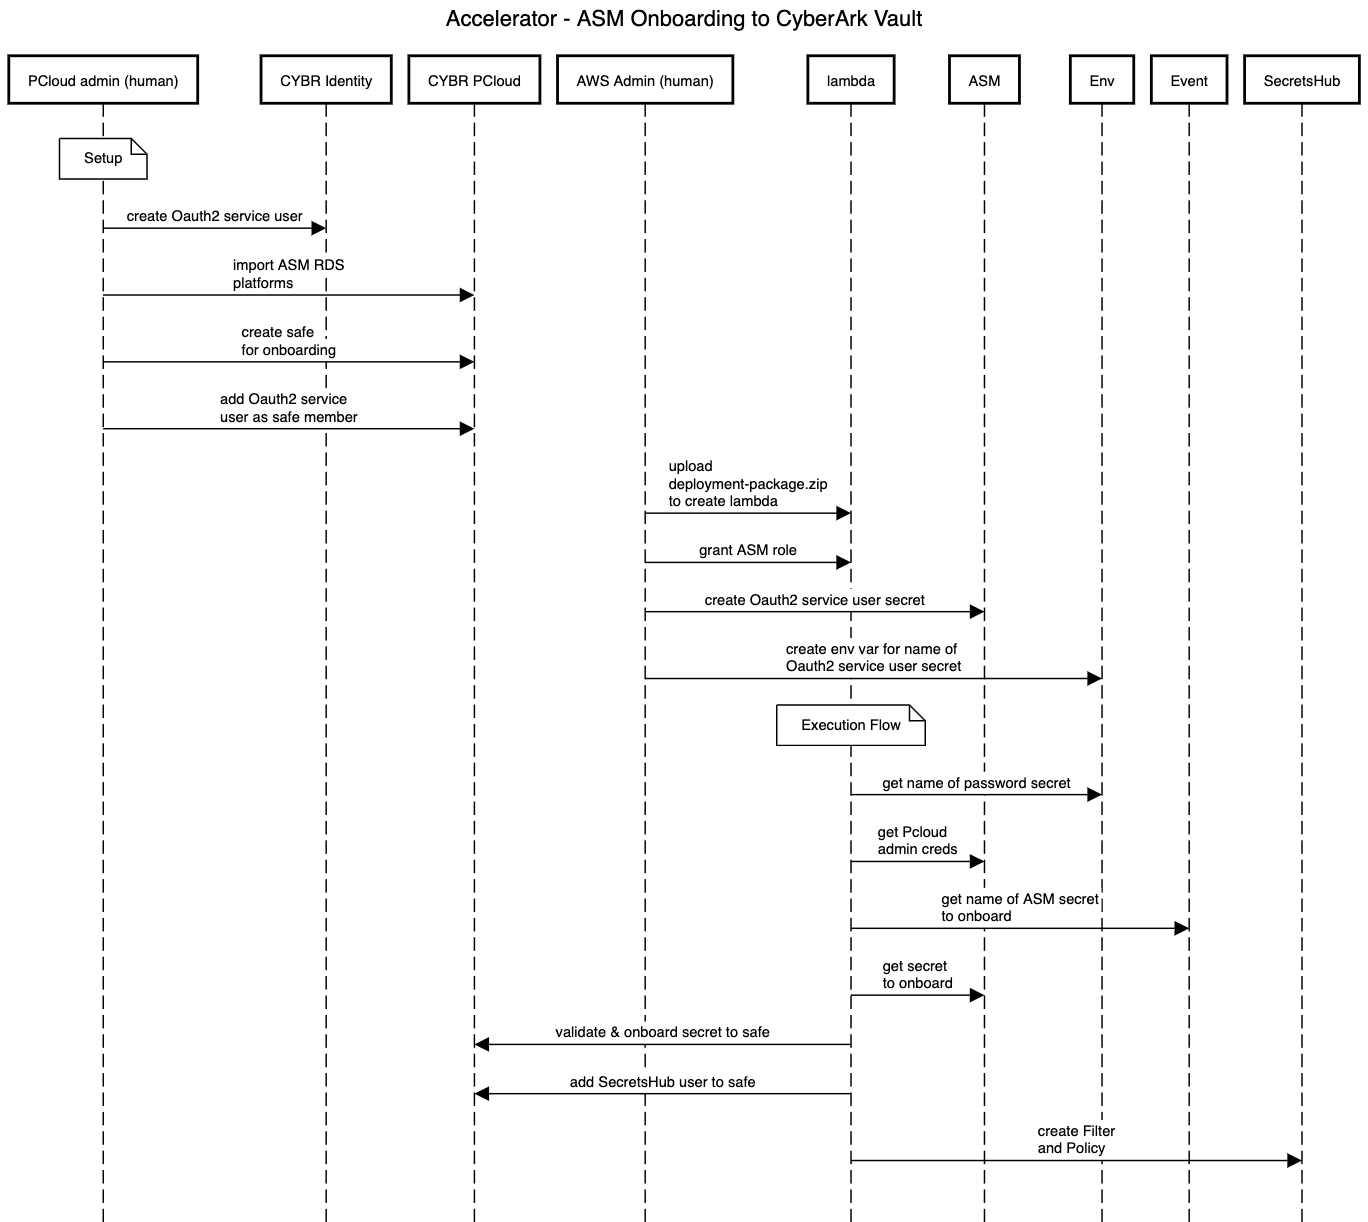
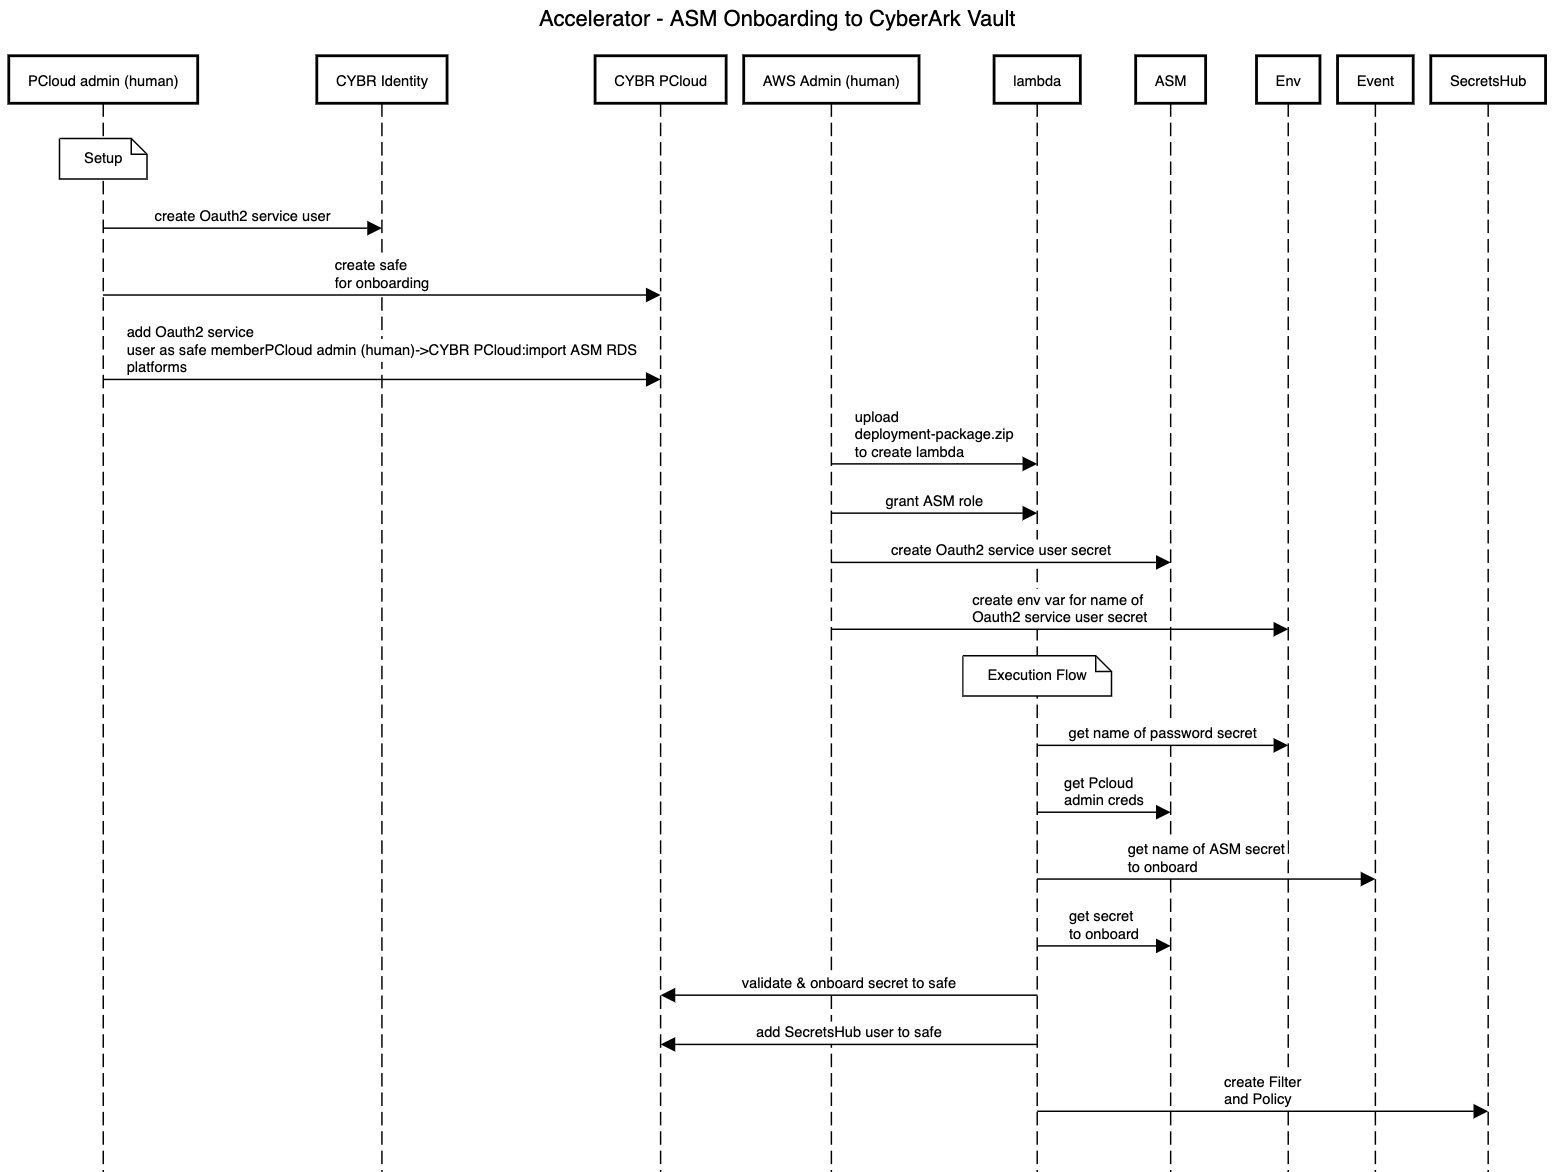
README updates

diff --git a/README.md b/README.md
@@ -32,7 +32,6 @@
 - Resources:
   - A Safe in Privilege Cloud with:
     - the CyberArk Identity Oauth2 service user as safe member with preset Account Managers permissions
-    - **Be sure to use the "Account Managers" preset.**
   - An ASM secret containing values for CyberArk Identity Oauth2 service user credentials and tenant subdomain.
   - An RDS secret in ASM, tagged as described below.
   - The provided lambda function, configured as below.
@@ -41,12 +40,20 @@
 ### Step One: Privilege Cloud setup
 - Role: CyberArk Privilege Cloud admin
 - Tasks:
-  - Import platforms for relevant RDS databases (see platformlib directory in this repo)
+  - Create Oauth2 service user in CyberArk Identity with these permissions:
+    - Privilege Cloud Users
+    - Secrets Manager - Secrets Hub Administrators
+  - Create the safe for onboarding ASM secrets into
+    - Add the Oauth2 service user as member
+    - The CyberArk admin service user must be a member with Account Managers permissions.
+      - **Be sure to use the "Account Managers" preset.**
+  - Import database platforms for relevant RDS databases
+    - See platformlib directory in this repo
+    - If you change platform names, you will need to modify the PLATFORM_MAP dictionary near the top of lambda_function.py.
   - In Privilege Cloud->Adminstration->Configuration Options, add "SecretNameInSecretStore" to Search Properties 
     ![Pcloud Admin Config](https://github.com/conjurdemos/Accelerator-ASMOnboardingForSH/blob/main/img/Pcloud-Admin-Add-SearchProperty.png?raw=true)
+    - "SecretNameInSecretStore" added to Search Properties
     ![Pcloud Property Added](https://github.com/conjurdemos/Accelerator-ASMOnboardingForSH/blob/main/img/Pcloud-Added-SecretNameInSecretStore.png?raw=true)
-    - Create safe w/ Oauth2 service user as member
-    - The CyberArk admin service user must be a member with Account Managers permissions.
 
 ### Step Two: AWS Secrets Manager setup
 - Role: AWS admin user
